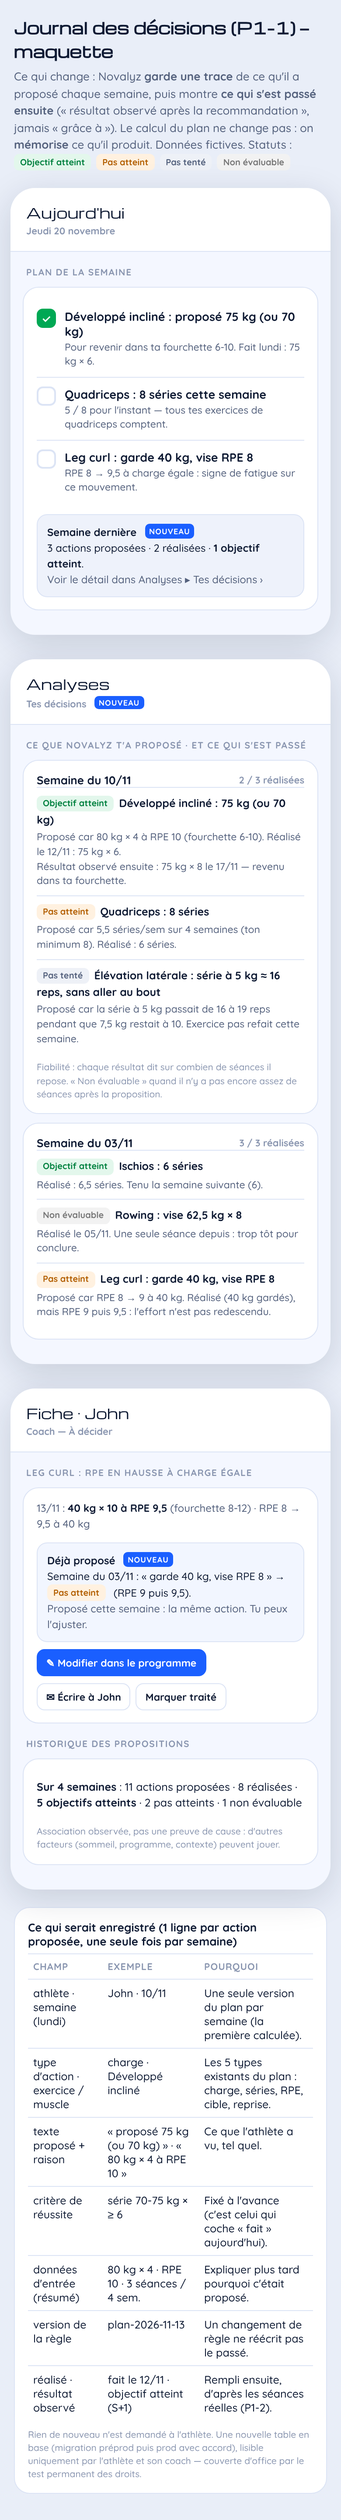
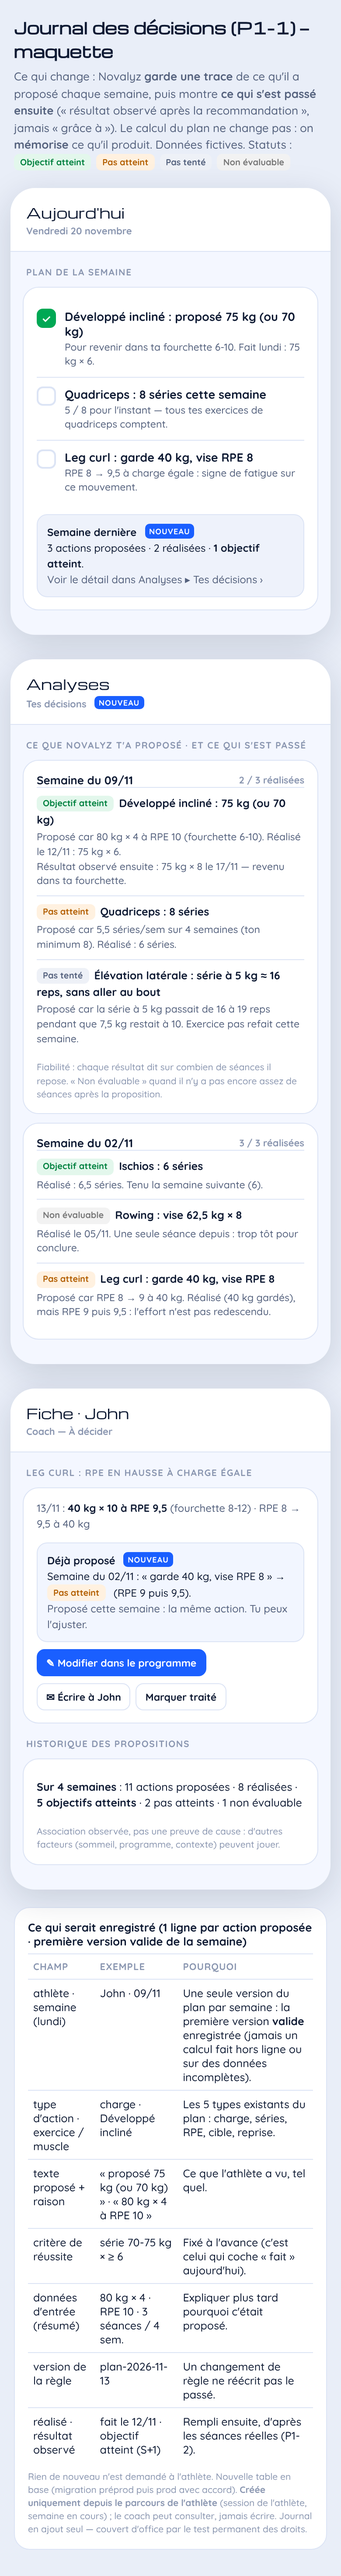
P1-1 journal des décisions : migration + routes serveur + tests (aucune modification de l'app)
Validé porteur (13/11) : maquette + option A (l'app calcule, le serveur fige) avec 5 garde-fous.
- Migration 20261113160000_decisions.sql : table decisions (UNIQUE athlète+semaine+type+clé, lundi obligatoire,
  types fermés, version de règle), RLS fermé, serveur seul. Vérifiée sur PostgreSQL 16 local.
- index.ts : enregistrerPlan (athlète de la session uniquement, coach refusé dans authCheck ; semaine courante
  Paris/UTC ; donnees_completes obligatoire ; contrôle de forme sans recalcul ; 1re version valide, 23505 = déjà) ;
  getDecisions (athlète, son coach) ; suppression du compte efface le journal.
- Tests : journal-decisions (44), suppression-compte et banc de droits couvrent la nouvelle table (123 routes).
- Maquette : dates corrigées, « première version valide enregistrée », coach en lecture seule.

Claude-Session: https://claude.ai/code/session_01Cg9q2H2KbjYxG63Do6Xty1

Changed region(s): [[0.0308, 0.0, 0.9846, 0.9993]]

diff --git a/tests/journal-decisions.test.js b/tests/journal-decisions.test.js
@@ -1,0 +1,123 @@
+/* JOURNAL DES DÉCISIONS (P1-1, 13/11/2026) — routes enregistrerPlan / getDecisions sur le VRAI index.ts
+ * (contrôle d'accès compris : AUTH_ENFORCE=1, sessions signées réelles, requêtes HTTP).
+ * Garde-fous du porteur : (1) athlète = session, coach jamais en écriture ; (2) semaine courante seulement ;
+ * (3) une seule version par semaine, aucun doublon ; (4) rien sans données complètes ; (5) contrôle de forme, pas de recalcul. */
+const fs = require('fs'), path = require('path'), vm = require('vm');
+const { stripTypeScriptTypes } = require('node:module');
+const ROOT = path.join(__dirname, '..');
+const T = fs.readFileSync(path.join(__dirname, 'e2e-parcours.test.js'), 'utf8');
+eval(T.slice(T.indexOf('function makeEngine'), T.indexOf('// ── Chargement du VRAI backend')));
+const SRC = fs.readFileSync(path.join(ROOT, 'supabase', 'functions', 'handler', 'index.ts'), 'utf8');
+
+let STORE = null, INSERT_23505 = false, NIP = 0;
+const ENV = { PEPPER: 'p', AUTH_ENFORCE: '1' };
+function db() {
+  return { from: (t) => { const q = makeEngine(STORE).from(t);
+    if (t === 'decisions' && INSERT_23505) { q.insert = () => { const ko = { data: null, error: { code: '23505' } }; const th = { then: (r) => r(ko), select: () => th }; return th; }; }
+    return q; }, rpc: () => ({ then: (r) => r({ data: null, error: null }) }), storage: { from: () => ({}) } };
+}
+let HANDLER = null, API = null;
+{ let js = stripTypeScriptTypes(SRC).split('\n').filter((l) => !/^import\s/.test(l)).join('\n') + '\n;this.__api = { signSession, _sessDepuisCache, _lundisCourants, fmtYMD, getLundi, minus };';
+  const sb = { createClient: () => db(), webpush: { setVapidDetails() {}, sendNotification: async () => {} }, Deno: { env: { get: (k) => ENV[k] }, serve: (fn) => { HANDLER = fn; } },
+    Response, Request, URL, URLSearchParams, TextEncoder, TextDecoder, crypto, atob, btoa, setTimeout, clearTimeout, fetch: async () => ({ ok: true, json: async () => ({}) }), console: { log() {}, error() {}, warn() {} } };
+  vm.createContext(sb); vm.runInContext(js, sb); API = sb.__api; }
+
+const U = 'https://x.supabase.co/functions/v1/smooth-service';
+async function post(body, tok) { NIP++; const r = await HANDLER(new Request(U + (tok ? '?_t=' + encodeURIComponent(tok) : ''), { method: 'POST', headers: { 'Content-Type': 'text/plain', 'x-forwarded-for': '10.1.' + Math.floor(NIP / 250) + '.' + (NIP % 250) }, body: JSON.stringify(body) })); return { status: r.status, j: await r.json() }; }
+async function get(params, tok) { NIP++; const q = new URLSearchParams(params); if (tok) q.set('_t', tok); const r = await HANDLER(new Request(U + '?' + q.toString(), { headers: { 'x-forwarded-for': '10.2.' + Math.floor(NIP / 250) + '.' + (NIP % 250) } })); return { status: r.status, j: await r.json() }; }
+
+let ok = 0, ko = 0;
+const eq = (c, n, g) => { if (c) ok++; else { ko++; console.error('  ✗ ' + n + (g !== undefined ? ' (got ' + JSON.stringify(g) + ')' : '')); } };
+const graine = () => ({ athletes: [{ id: 'A1', login: '1001', coach_id: 'C1', prefs: {} }, { id: 'A2', login: '1002', coach_id: 'C2', prefs: {} }],
+  coachs: [{ coach_id: 'C1', login: 'c1', prefs: {} }, { coach_id: 'C2', login: 'c2', prefs: {} }], decisions: [], login_echecs: [], quotas_jour: [] });
+const lundi = API.fmtYMD(API.getLundi(new Date()));
+const plan = (o) => Object.assign({ action: 'enregistrerPlan', semaine: lundi, regle_version: 'plan-2026-11-13', donnees_completes: true, actions: [
+  { type: 'charge', exo: 'Développé incliné', titre: 'Développé incliné : proposé 75 kg (ou 70 kg)', raison: 'Pour revenir dans ta fourchette 6-10.', critere: { charge: 75, alt: 70, reps: 6 }, donnees_entree: { c: 80, r: 4, rpe: 10, n: 3 } },
+  { type: 'series', exo: 'Belt squat', muscle: 'Quadriceps', titre: 'Quadriceps : 8 séries cette semaine', critere: { min: 8, add: 3, parSem: 5.5 } },
+  { type: 'rpe', exo: 'Leg curl', titre: 'Leg curl : garde 40 kg, vise RPE 8', critere: { charge: 40 } },
+] }, o || {});
+
+(async () => {
+  const tA1 = await API.signSession('a', 'A1'), tA2 = await API.signSession('a', 'A2'), tC1 = await API.signSession('c', 'C1'), tC2 = await API.signSession('c', 'C2');
+  const reset = () => { STORE = graine(); INSERT_23505 = false; API._sessDepuisCache.clear(); };
+
+  // (1)+(3) Athlète, plan valide → 3 lignes, athlète = session.
+  reset();
+  let r = await post(plan(), tA1);
+  eq(r.status === 200 && r.j.success === true && r.j.enregistrees === 3, 'athlète : plan valide enregistré (3 actions)', r);
+  eq(STORE.decisions.length === 3 && STORE.decisions.every((d) => d.athlete_id === 'A1' && d.semaine === lundi && d.regle_version === 'plan-2026-11-13'), 'lignes : athlète de la session, semaine, version', STORE.decisions);
+  eq(STORE.decisions.find((d) => d.type_action === 'series').cle === 'Quadriceps', 'action « séries » : clé = muscle');
+  eq(JSON.stringify(STORE.decisions[0].critere) === JSON.stringify({ charge: 75, alt: 70, reps: 6 }), 'critère de réussite enregistré tel quel');
+  // (3) Renvoi / plan différent la même semaine → rien de plus (première version valide).
+  r = await post(plan(), tA1);
+  eq(r.j.success === true && r.j.deja === true && STORE.decisions.length === 3, 'même plan renvoyé → aucun doublon', r);
+  r = await post(plan({ actions: [{ type: 'cible', exo: 'Rowing', titre: 'Rowing : vise 62,5 kg × 8', critere: { charge: 62.5, reps: 8 } }] }), tA1);
+  eq(r.j.deja === true && STORE.decisions.length === 3 && !STORE.decisions.some((d) => d.cle === 'Rowing'), 'autre plan la même semaine → ignoré (la 1re version valide reste)', STORE.decisions.length);
+  // (3) Envoi simultané : la contrainte UNIQUE de la base répond 23505 → traité comme « déjà enregistré ».
+  reset(); INSERT_23505 = true;
+  r = await post(plan(), tA1);
+  eq(r.j.success === true && r.j.deja === true, 'conflit UNIQUE (envoi simultané) → « déjà enregistré », pas d\'erreur', r);
+
+  // (1) Identité : jamais celle envoyée.
+  reset();
+  r = await post(plan({ athlete_id: 'A2' }), tA1);
+  eq(r.status === 401 && !STORE.decisions.length, 'athlète A1 qui cite A2 → refusé (401), rien écrit', r);
+  r = await post(plan({ athlete_id: 'A1' }), tA1);
+  eq(r.j.success === true && STORE.decisions.every((d) => d.athlete_id === 'A1'), 'athlete_id = celui de la session → accepté (contrôle de cohérence)');
+  reset();
+  r = await post(plan({ athlete_id: 'A1' }), tC1);
+  eq(r.status === 401 && !STORE.decisions.length, 'coach (même SON athlète) → refusé (401), rien écrit', r);
+  r = await post(plan(), tC1);
+  eq(r.status === 401 && !STORE.decisions.length, 'coach sans athlete_id → refusé (401)', r);
+  r = await post(plan(), null);
+  eq(r.status === 401 && !STORE.decisions.length, 'sans jeton → 401');
+
+  // (4) Données incomplètes → rien.
+  for (const v of [undefined, false, 'true', 1]) { reset(); const b = plan(); if (v === undefined) delete b.donnees_completes; else b.donnees_completes = v;
+    r = await post(b, tA1); eq(r.j.success === false && !STORE.decisions.length, 'donnees_completes = ' + JSON.stringify(v) + ' → rien enregistré', r); }
+
+  // (2) Semaine courante seulement.
+  const dec = (n) => API.fmtYMD(API.minus(API.getLundi(new Date()), n));
+  for (const [s, lib] of [[dec(7), 'semaine passée'], [dec(-7), 'semaine future'], [dec(-1), 'un mardi'], ['2026-13-40', 'date invalide'], ['', 'vide']]) {
+    reset(); r = await post(plan({ semaine: s }), tA1);
+    eq(r.j.success === false && !STORE.decisions.length, lib + ' (' + s + ') → refusé', r);
+  }
+  eq(API._lundisCourants(new Date('2026-11-15T23:30:00Z')).includes('2026-11-16'), 'dimanche 23 h 30 UTC = lundi 00 h 30 à Paris → lundi 16/11 accepté');
+  eq(API._lundisCourants(new Date('2026-11-15T23:30:00Z')).includes('2026-11-09'), '… et lundi 09/11 (UTC) aussi, pas un autre');
+
+  // (5) Contrôle de forme.
+  const mauvais = [
+    ['0 action', { actions: [] }], ['4 actions', { actions: [1, 2, 3, 4].map((i) => ({ type: 'cible', exo: 'E' + i, titre: 't', critere: {} })) }],
+    ['type inconnu', { actions: [{ type: 'magie', exo: 'X', titre: 't' }] }],
+    ['titre absent', { actions: [{ type: 'cible', exo: 'X' }] }], ['titre trop long', { actions: [{ type: 'cible', exo: 'X', titre: 'x'.repeat(201) }] }],
+    ['exercice absent', { actions: [{ type: 'charge', titre: 't' }] }],
+    ['critère inconnu', { actions: [{ type: 'cible', exo: 'X', titre: 't', critere: { pirate: 1 } }] }],
+    ['critère hors bornes', { actions: [{ type: 'cible', exo: 'X', titre: 't', critere: { charge: 5000 } }] }],
+    ['critère texte', { actions: [{ type: 'cible', exo: 'X', titre: 't', critere: { charge: '75' } }] }],
+    ['action en double', { actions: [{ type: 'cible', exo: 'X', titre: 't' }, { type: 'cible', exo: 'X', titre: 't2' }] }],
+    ['données d\'entrée trop longues', { actions: [{ type: 'cible', exo: 'X', titre: 't', donnees_entree: { a: 'x'.repeat(2100) } }] }],
+    ['version absente', { regle_version: '' }], ['version invalide', { regle_version: 'Plan V1!' }],
+  ];
+  for (const [lib, o] of mauvais) { reset(); r = await post(plan(o), tA1); eq(r.j.success === false && !STORE.decisions.length, 'forme : ' + lib + ' → refusé, rien écrit', r.j); }
+  reset(); r = await post(plan({ actions: [{ type: 'reprise', titre: 'Reprendre : 1 séance de muscu cette semaine', critere: { seances: 1 } }] }), tA1);
+  eq(r.j.success === true && STORE.decisions[0].cle === 'reprise', 'action « reprise » (sans exercice) acceptée', r.j);
+
+  // Lecture : athlète (le sien), son coach ; refus pour les autres.
+  reset(); await post(plan(), tA1); STORE.decisions.push({ athlete_id: 'A2', semaine: lundi, type_action: 'cible', cle: 'X', titre: 'SECRET_A2', critere: {}, donnees_entree: {}, regle_version: 'v-1' });
+  r = await get({ action: 'getDecisions', athlete_id: 'A1' }, tA1);
+  eq(r.status === 200 && r.j.decisions.length === 3 && !JSON.stringify(r.j).includes('SECRET_A2'), 'athlète : lit SON journal (3), rien d\'un autre', r.j);
+  r = await get({ action: 'getDecisions', athlete_id: 'A1' }, tC1);
+  eq(r.status === 200 && r.j.decisions.length === 3, 'coach : lit le journal de SON athlète', r.status);
+  r = await get({ action: 'getDecisions', athlete_id: 'A2' }, tA1); eq(r.status === 401, 'athlète A1 → journal de A2 : 401');
+  r = await get({ action: 'getDecisions', athlete_id: 'A2' }, tC1); eq(r.status === 401, 'coach hors périmètre → 401');
+  r = await get({ action: 'getDecisions', athlete_id: 'A1' }, null); eq(r.status === 401, 'lecture sans jeton → 401');
+
+  // Journal en ajout seul + le serveur ne recalcule pas le plan.
+  const ecr = [...SRC.matchAll(/from\('decisions'\)\.(insert|update|upsert|delete)/g)].map((m) => m[1]);
+  eq(JSON.stringify(ecr.sort()) === JSON.stringify(['delete', 'insert']), 'écritures sur decisions : 1 insertion (enregistrerPlan) + 1 suppression (suppression du compte), aucune modification', ecr);
+  const corps = SRC.slice(SRC.indexOf('async function handleEnregistrerPlan'), SRC.indexOf('async function handleGetDecisions'));
+  eq(!/_rcLectureExos|_lv3|progression_par_exo|performances/.test(corps), 'enregistrerPlan ne recalcule pas le moteur (aucune lecture des séances)');
+
+  console.log(`journal-decisions : ${ok} OK / ${ko} KO`);
+  process.exit(ko ? 1 : 0);
+})().catch((e) => { console.error(e); process.exit(1); });

diff --git a/supabase/functions/handler/index.ts b/supabase/functions/handler/index.ts
@@ -4521,6 +4521,7 @@ async function handleSupprimerCompte(body: any): Promise<Response> {
     sb().from('pauses').delete().eq('athlete_id', athleteId),
     sb().from('push_subscriptions').delete().eq('athlete_id', athleteId),
     sb().from('alertes_historique').delete().eq('athlete_id', athleteId),
+    sb().from('decisions').delete().eq('athlete_id', athleteId),   // journal des décisions (P1-1)
     sb().from('envois_recus').delete().eq('athlete_id', athleteId),
   ].map((q: any) => Promise.resolve(q).catch(() => null)))
   // Fichiers privés rangés sous le préfixe <athlete_id>/ : médias coach (photos/vidéos
@@ -6056,6 +6057,95 @@ async function handleCronResumes(body: any): Promise<Response> {
 // 'off' | 'semaine' | 'mois' | '3mois'. Le front envoie athlete_id OU coach_id.
 // P9 (05/11) : formulaire « Envoyer un retour » → hello@novalyz.fr (l'adresse perso n'apparaît plus dans l'app).
 const CONTACT_NOVALYZ = 'hello@novalyz.fr'
+// ── Journal des décisions (P1-1, 13/11 — migration 20261113160000_decisions.sql) ─────────────────────────────
+// Le plan de la semaine est calculé par l'APP (js/lecture-v3.js _lv3Plan, moteur unique). Ici on le FIGE, on ne le
+// recalcule pas. Garde-fous validés par le porteur : athlète = session (coach : jamais d'écriture) ; semaine COURANTE
+// seulement ; une seule version par athlète et par semaine (la première VALIDE), aucune ligne en double ; rien si l'app
+// n'a pas des données complètes ; contrôle de FORME uniquement. Journal en ajout seul (aucune route de modification).
+const DECISION_TYPES = ['charge', 'series', 'rpe', 'cible', 'reprise']
+const DECISION_CRITERE_BORNES: Record<string, [number, number]> = { charge: [0, 1000], alt: [0, 1000], reps: [0, 100], min: [0, 100], add: [0, 20], parSem: [0, 200], seances: [0, 14] }
+// Lundi de la semaine courante (aaaa-mm-jj) à l'heure de Paris, et en UTC (tolérance autour de minuit).
+function _lundisCourants(now: Date): string[] {
+  const out = new Set<string>([fmtYMD(getLundi(now))])
+  try {
+    const p: Record<string, string> = {}
+    for (const x of new Intl.DateTimeFormat('en-CA', { timeZone: 'Europe/Paris', year: 'numeric', month: '2-digit', day: '2-digit' }).formatToParts(now)) p[x.type] = x.value
+    out.add(fmtYMD(getLundi(new Date(Date.UTC(+p.year, +p.month - 1, +p.day)))))
+  } catch (_) { /* Intl indisponible : lundi UTC seul */ }
+  return [...out]
+}
+// Contrôle de forme d'une action du plan → ligne prête à insérer, ou message d'erreur. Ne juge pas le contenu.
+function _decisionLigne(a: any, athleteId: string, semaine: string, version: string): { ligne?: any; err?: string } {
+  if (!a || typeof a !== 'object' || Array.isArray(a)) return { err: 'action invalide' }
+  const type = String(a.type || '')
+  if (!DECISION_TYPES.includes(type)) return { err: 'type d\'action inconnu' }
+  const str = (v: any, max: number) => (v == null || v === '') ? null : (typeof v === 'string' && v.trim().length <= max ? v.trim() : undefined)
+  const titre = str(a.titre, 200), raison = str(a.raison, 600), exercice = str(a.exo, 120), muscle = str(a.muscle, 60)
+  if (!titre) return { err: 'titre manquant ou trop long' }
+  if (raison === undefined || exercice === undefined || muscle === undefined) return { err: 'champ trop long' }
+  const cle = type === 'reprise' ? 'reprise' : type === 'series' ? (muscle || exercice) : exercice
+  if (!cle) return { err: 'exercice / muscle manquant' }
+  const critere: Record<string, number> = {}
+  const c = a.critere == null ? {} : a.critere
+  if (typeof c !== 'object' || Array.isArray(c)) return { err: 'critère invalide' }
+  for (const k of Object.keys(c)) {
+    const b = DECISION_CRITERE_BORNES[k], v = c[k]
+    if (!b) return { err: 'critère : champ inconnu (' + k + ')' }
+    if (v == null) continue
+    if (typeof v !== 'number' || !isFinite(v) || v < b[0] || v > b[1]) return { err: 'critère : valeur hors bornes (' + k + ')' }
+    critere[k] = v
+  }
+  const de = a.donnees_entree == null ? {} : a.donnees_entree
+  if (typeof de !== 'object' || Array.isArray(de)) return { err: 'données d\'entrée invalides' }
+  if (JSON.stringify(de).length > 2000) return { err: 'données d\'entrée trop longues' }
+  return { ligne: { athlete_id: athleteId, semaine, type_action: type, cle, exercice, muscle, titre, raison, critere, donnees_entree: de, regle_version: version } }
+}
+async function handleEnregistrerPlan(body: any): Promise<Response> {
+  // 1. Identité = session ATHLÈTE (authCheck refuse déjà le coach et un athlete_id d'un autre ; double contrôle ici).
+  if (body._sessRole !== 'a' || !body._sessId) return jsonResp({ success: false, error: 'Réservé à l\'athlète' })
+  const athleteId = String(body._sessId)
+  if (body.athlete_id != null && body.athlete_id !== '' && String(body.athlete_id) !== athleteId) return jsonResp({ success: false, error: 'Athlète incohérent avec la session' })
+  // 4. L'app déclare avoir calculé le plan sur des données complètes (en ligne, getAppData chargé) ; sinon rien.
+  if (body.donnees_completes !== true) return jsonResp({ success: false, error: 'Plan non enregistré : données incomplètes' })
+  // 2. Semaine courante seulement.
+  const semaine = String(body.semaine || '')
+  if (!/^\d{4}-\d{2}-\d{2}$/.test(semaine) || !_lundisCourants(new Date()).includes(semaine)) return jsonResp({ success: false, error: 'Seul le plan de la semaine en cours peut être enregistré' })
+  const version = String(body.regle_version || '')
+  if (!/^[a-z0-9._-]{3,40}$/.test(version)) return jsonResp({ success: false, error: 'Version de règle manquante ou invalide' })
+  const actions = body.actions
+  if (!Array.isArray(actions) || actions.length < 1 || actions.length > 3) return jsonResp({ success: false, error: 'Le plan doit contenir 1 à 3 actions' })
+  // 5. Contrôle de forme (pas de recalcul du moteur).
+  const lignes: any[] = [], vus = new Set<string>()
+  for (const a of actions) {
+    const r = _decisionLigne(a, athleteId, semaine, version)
+    if (r.err) return jsonResp({ success: false, error: 'Plan refusé : ' + r.err })
+    const k = r.ligne.type_action + '|' + r.ligne.cle
+    if (vus.has(k)) return jsonResp({ success: false, error: 'Plan refusé : action en double' })
+    vus.add(k); lignes.push(r.ligne)
+  }
+  // 3. Une seule version par semaine : si un plan existe déjà pour cette semaine, on n'écrit rien (première version valide).
+  const { data: deja, error: eLire } = await sb().from('decisions').select('id').eq('athlete_id', athleteId).eq('semaine', semaine).limit(1)
+  if (eLire) return jsonResp({ success: false, error: 'Lecture du journal impossible' })
+  if (deja && deja.length) return jsonResp({ success: true, deja: true, enregistrees: 0 })
+  const { error } = await sb().from('decisions').insert(lignes)
+  if (error) {
+    if (String((error as any).code) === '23505') return jsonResp({ success: true, deja: true, enregistrees: 0 })   // envoi simultané : la contrainte UNIQUE tranche
+    return jsonResp({ success: false, error: 'Enregistrement impossible' })
+  }
+  return jsonResp({ success: true, deja: false, enregistrees: lignes.length })
+}
+// Lecture du journal : l'athlète (le sien) ou son coach (authCheck vérifie athlete_id). Lecture seule.
+async function handleGetDecisions(params: URLSearchParams): Promise<Response> {
+  const athleteId = String(params.get('athlete_id') || '').trim()
+  if (!athleteId) return jsonResp({ erreur: 'athlete_id manquant' })
+  const n = Math.max(1, Math.min(52, Number(params.get('semaines')) || 12))
+  const depuis = fmtYMD(minus(getLundi(new Date()), 7 * n))
+  const { data, error } = await sb().from('decisions').select('semaine,type_action,cle,exercice,muscle,titre,raison,critere,donnees_entree,regle_version,created_at')
+    .eq('athlete_id', athleteId).gte('semaine', depuis).order('semaine', { ascending: false }).order('id', { ascending: true })
+  if (error) return jsonResp({ success: false, error: 'Lecture du journal impossible' })
+  return jsonResp({ success: true, decisions: data || [] })
+}
+
 async function handleEnvoyerRetour(body: any): Promise<Response> {
   const msg = String(body.message || '').trim().slice(0, 3000)
   if (msg.length < 3) return jsonResp({ success: false, error: 'Message vide' })
@@ -8030,7 +8120,8 @@ async function authCheck(action: string, params: URLSearchParams, body: any): Pr
   // Audit P2.1 🟡 (décision porteur 13/11) : réservés à l'athlète lui-même. claimRecompense : les points sont les siens ;
   // saveEmail : l'e-mail sert à « mot de passe oublié » → un coach qui y mettait SON adresse pouvait reprendre le compte,
   // même après que l'athlète l'a quitté. L'app n'appelle ces deux routes que côté athlète.
-  if ((action === 'claimRecompense' || action === 'saveEmail') && sess.role !== 'a') return { ok: false, reason: 'coach ' + sess.id + ' → ' + action + ' de ' + aid + ' (réservé à l\'athlète)' }
+  // P1-1 (13/11) : le journal des décisions n'est créé que depuis le parcours de l'athlète (jamais par le coach).
+  if ((action === 'claimRecompense' || action === 'saveEmail' || action === 'enregistrerPlan') && sess.role !== 'a') return { ok: false, reason: 'coach ' + sess.id + ' → ' + action + ' de ' + aid + ' (réservé à l\'athlète)' }
   if (sess.role === 'a') {
     if (aid && aid !== sess.id) return { ok: false, reason: 'athlète ' + sess.id + ' → données de ' + aid }
     if (cid) {
@@ -8109,6 +8200,7 @@ Deno.serve(async (req: Request) => {
         case 'getSuiviEquipe':        return handleGetSuiviEquipe(params)
         case 'getSuiviJoueur':        return handleGetSuiviJoueur(params)
         case 'getTests':              return handleGetTests(params)
+        case 'getDecisions':          return handleGetDecisions(params)
         default:                      return jsonResp({ erreur: `Action inconnue: ${action}` }, 404)
       }
     }
@@ -8147,6 +8239,7 @@ Deno.serve(async (req: Request) => {
         case 'saveRecapFreq':            return handleSaveRecapFreq(body)
         case 'saveCoachPref':            return handleSaveCoachPref(body)
         case 'envoyerRetour':            return handleEnvoyerRetour(body)
+        case 'enregistrerPlan':          return handleEnregistrerPlan(body)
         case 'requestPasswordReset':     return handleRequestPasswordReset(body)
         case 'resetPassword':            return handleResetPassword(body)
         case 'confirmerEmail':           return handleConfirmerEmail(body)

diff --git a/mockups/journal-decisions.html b/mockups/journal-decisions.html
@@ -44,7 +44,7 @@ table{border-collapse:collapse;width:100%;font-size:12.5px}td,th{border-top:1px 
 <div class="wrap">
   <!-- 1. Aujourd'hui : plan de la semaine + bilan de la semaine dernière -->
   <div class="phone">
-    <div class="top">Aujourd'hui<small>Jeudi 20 novembre</small></div>
+    <div class="top">Aujourd'hui<small>Vendredi 20 novembre</small></div>
     <div class="lbl">Plan de la semaine</div>
     <div class="card">
       <div class="act"><div class="chk on">✓</div><div><div class="t">Développé incliné : proposé 75 kg (ou 70 kg)</div><div class="p">Pour revenir dans ta fourchette 6-10. Fait lundi : 75 kg × 6.</div></div></div>
@@ -61,7 +61,7 @@ table{border-collapse:collapse;width:100%;font-size:12.5px}td,th{border-top:1px 
     <div class="top">Analyses<small>Tes décisions <span class="new">NOUVEAU</span></small></div>
     <div class="lbl">Ce que Novalyz t'a proposé · et ce qui s'est passé</div>
     <div class="card">
-      <div class="wk">Semaine du 10/11 <span>2 / 3 réalisées</span></div>
+      <div class="wk">Semaine du 09/11 <span>2 / 3 réalisées</span></div>
       <div class="line"><span class="tag ok">Objectif atteint</span><b>Développé incliné : 75 kg (ou 70 kg)</b>
         <div class="o">Proposé car 80 kg × 4 à RPE 10 (fourchette 6-10). Réalisé le 12/11 : 75 kg × 6.<br>Résultat observé ensuite : 75 kg × 8 le 17/11 — revenu dans ta fourchette.</div></div>
       <div class="line"><span class="tag ko">Pas atteint</span><b>Quadriceps : 8 séries</b>
@@ -71,7 +71,7 @@ table{border-collapse:collapse;width:100%;font-size:12.5px}td,th{border-top:1px 
       <div class="cap">Fiabilité : chaque résultat dit sur combien de séances il repose. « Non évaluable » quand il n'y a pas encore assez de séances après la proposition.</div>
     </div>
     <div class="card">
-      <div class="wk">Semaine du 03/11 <span>3 / 3 réalisées</span></div>
+      <div class="wk">Semaine du 02/11 <span>3 / 3 réalisées</span></div>
       <div class="line"><span class="tag ok">Objectif atteint</span><b>Ischios : 6 séries</b><div class="o">Réalisé : 6,5 séries. Tenu la semaine suivante (6).</div></div>
       <div class="line"><span class="tag ne">Non évaluable</span><b>Rowing : vise 62,5 kg × 8</b><div class="o">Réalisé le 05/11. Une seule séance depuis : trop tôt pour conclure.</div></div>
       <div class="line"><span class="tag ko">Pas atteint</span><b>Leg curl : garde 40 kg, vise RPE 8</b><div class="o">Proposé car RPE 8 → 9 à 40 kg. Réalisé (40 kg gardés), mais RPE 9 puis 9,5 : l'effort n'est pas redescendu.</div></div>
@@ -85,7 +85,7 @@ table{border-collapse:collapse;width:100%;font-size:12.5px}td,th{border-top:1px 
     <div class="card">
       <div style="font-size:12px;color:var(--m);line-height:1.5">13/11 : <b style="color:var(--t)">40 kg × 10 à RPE 9,5</b> (fourchette 8-12) · RPE 8 → 9,5 à 40 kg</div>
       <div class="res" style="background:#F2F6FF"><b>Déjà proposé</b> <span class="new">NOUVEAU</span><br>
-        Semaine du 03/11 : « garde 40 kg, vise RPE 8 » → <span class="tag ko">Pas atteint</span> (RPE 9 puis 9,5).<br>
+        Semaine du 02/11 : « garde 40 kg, vise RPE 8 » → <span class="tag ko">Pas atteint</span> (RPE 9 puis 9,5).<br>
         <span style="color:var(--m)">Proposé cette semaine : la même action. Tu peux l'ajuster.</span></div>
       <span class="btn p">✎ Modifier dans le programme</span><span class="btn">✉ Écrire à John</span><span class="btn">Marquer traité</span>
     </div>
@@ -99,10 +99,10 @@ table{border-collapse:collapse;width:100%;font-size:12.5px}td,th{border-top:1px 
 
 <div class="store">
   <div class="card">
-    <div class="wk" style="margin-bottom:6px">Ce qui serait enregistré (1 ligne par action proposée, une seule fois par semaine)</div>
+    <div class="wk" style="margin-bottom:6px">Ce qui serait enregistré (1 ligne par action proposée · première version valide de la semaine)</div>
     <table>
       <tr><th>Champ</th><th>Exemple</th><th>Pourquoi</th></tr>
-      <tr><td>athlète · semaine (lundi)</td><td>John · 10/11</td><td>Une seule version du plan par semaine (la première calculée).</td></tr>
+      <tr><td>athlète · semaine (lundi)</td><td>John · 09/11</td><td>Une seule version du plan par semaine : la première version <b>valide</b> enregistrée (jamais un calcul fait hors ligne ou sur des données incomplètes).</td></tr>
       <tr><td>type d'action · exercice / muscle</td><td>charge · Développé incliné</td><td>Les 5 types existants du plan : charge, séries, RPE, cible, reprise.</td></tr>
       <tr><td>texte proposé + raison</td><td>« proposé 75 kg (ou 70 kg) » · « 80 kg × 4 à RPE 10 »</td><td>Ce que l'athlète a vu, tel quel.</td></tr>
       <tr><td>critère de réussite</td><td>série 70-75 kg × ≥ 6</td><td>Fixé à l'avance (c'est celui qui coche « fait » aujourd'hui).</td></tr>
@@ -110,7 +110,7 @@ table{border-collapse:collapse;width:100%;font-size:12.5px}td,th{border-top:1px 
       <tr><td>version de la règle</td><td>plan-2026-11-13</td><td>Un changement de règle ne réécrit pas le passé.</td></tr>
       <tr><td>réalisé · résultat observé</td><td>fait le 12/11 · objectif atteint (S+1)</td><td>Rempli ensuite, d'après les séances réelles (P1-2).</td></tr>
     </table>
-    <div class="cap">Rien de nouveau n'est demandé à l'athlète. Une nouvelle table en base (migration préprod puis prod avec accord), lisible uniquement par l'athlète et son coach — couverte d'office par le test permanent des droits.</div>
+    <div class="cap">Rien de nouveau n'est demandé à l'athlète. Nouvelle table en base (migration préprod puis prod avec accord). <b>Créée uniquement depuis le parcours de l'athlète</b> (session de l'athlète, semaine en cours) ; le coach peut consulter, jamais écrire. Journal en ajout seul — couvert d'office par le test permanent des droits.</div>
   </div>
 </div>
 </body></html>

diff --git a/scripts/audit-droits/banc.js b/scripts/audit-droits/banc.js
@@ -54,6 +54,7 @@ function graine() {
     s.notes = (s.notes || []).concat([{ athlete_id: aid, date: AUJ, note: 'note ' + tag, seance_id: 'S_' + aid }]);
     s.activites = (s.activites || []).concat([{ athlete_id: aid, seance_id: 'S_' + aid, date: AUJ, type: 'muscu', titre: tag }]);
     s.alertes_traitees = (s.alertes_traitees || []).concat([{ coach_id: cid, athlete_id: aid, cle: 'absence|' + tag, semaine: AUJ }]);
+    s.decisions = (s.decisions || []).concat([{ id: 'D_' + aid, athlete_id: aid, semaine: AUJ, type_action: 'cible', cle: 'Squat ' + tag, titre: 'décision ' + tag, critere: {}, donnees_entree: {}, regle_version: 'plan-test' }]);   // journal des décisions (P1-1)
   };
   pour('A1', 'MINE_A1', 'C1'); pour('A2', 'SECRET_A2', 'C2'); pour('A3', 'SECRET_A3', null);
   s.exercices = [{ exercice_id: '1', exercice: 'Squat', muscle: 'Quadriceps', statut: 'valide' }, { exercice_id: '2', exercice: 'Privé SECRET_C2', muscle: 'Dos', statut: 'en_attente', cree_par: 'coach:C2' }];

diff --git a/tests/suppression-compte-complete.test.js b/tests/suppression-compte-complete.test.js
@@ -15,7 +15,7 @@ const ROOT = path.join(__dirname, '..');
 const T = fs.readFileSync(path.join(__dirname, 'e2e-parcours.test.js'), 'utf8');
 eval(T.slice(T.indexOf('function makeEngine'), T.indexOf('// ── Chargement du VRAI backend')));
 
-const TABLES = ['activites', 'alertes_historique', 'bien_etre', 'blessures', 'commentaires', 'contexte_athlete', 'google_health_tokens',
+const TABLES = ['activites', 'alertes_historique', 'bien_etre', 'decisions', 'blessures', 'commentaires', 'contexte_athlete', 'google_health_tokens',
   'indicateurs', 'native_push_tokens', 'notes', 'objectif', 'objectifs', 'password_reset_tokens', 'pauses', 'performances', 'planning',
   'poids_historique', 'programme', 'push_subscriptions', 'tests'];
 

diff --git a/supabase/MIGRATIONS.md b/supabase/MIGRATIONS.md
@@ -28,6 +28,7 @@
 | `20261110170000_hachage_w1.sql` | Hachage lent des mots de passe (option C, `docs/note-hachage-mdp-2026-11-10.md`) : colonne de secours `password_hash_s2` (athletes, coachs) pour le retour arrière + table `jetons_admin` (jetons à durée limitée pour la conversion s2 → w1 par le serveur). Aucun mot de passe touché par la migration elle-même | ✅ appliquée 10/11/2026 ; serveur déployé ; John converti à la connexion, Lucas + jim par la tâche (jeton, 2 traités, 0 restant, faux jeton → 401) ; 3 connexions OK + mauvais mot de passe refusé ; connexion w1 ≈ 0,5 s au total | ✅ appliquée 10/11/2026 (accord porteur ; colonnes + table créées, RLS actif, aucun mot de passe touché : 53 comptes encore en s2). `index.ts` v246 déployé (= dépôt). Conversion : 18 lots, 53 comptes, 0 échec → 53 en w1 avec secours s2, 0 en s2 (1 compte démo sans mot de passe, inchangé) ; jetons supprimés. Test réel : John OK, mauvais mot de passe refusé. jim (démo) refusé avec `demo2026` AUSSI avec son s2 d'origine remis → son mot de passe prod n'est pas `demo2026` (pas lié à la conversion), reconverti en w1. À faire après observation : supprimer `password_hash_s2` |
 | `20261110190000_rls_auto_enable_droits.sql` | P0-3 audit (S7) : retire `EXECUTE` sur `rls_auto_enable()` (SECURITY DEFINER, retour `event_trigger`) à PUBLIC, `anon`, `authenticated`, `service_role` ; `postgres` (propriétaire) le garde. Fonction et déclencheur `ensure_rls` inchangés | ✅ appliquée 10/11/2026 : droits = `postgres` seul ; `anon` / `authenticated` → « permission denied » ; table de test créée → RLS activé automatiquement (déclencheur OK) puis supprimée ; seul usage = `ensure_rls` (aucune fonction, vue ni route) ; test local PG16 : déclencheur OK même pour un rôle sans `EXECUTE`, migration rejouable | ✅ appliquée 10/11/2026 (accord porteur) : droits = `postgres` seul ; `anon` / `authenticated` refusés ; table de test → RLS activé puis supprimée ; plus aucune fonction SECURITY DEFINER exposée ; 2 crons actifs inchangés |
 | `20261111150000_retours.sql` | Table `retours` (bouton « Signaler un problème / une idée », athlète et coach) : rôle, compte, type bug/idée/autre, message, écran, version, plateforme, statut ; RLS fermé, écriture serveur seul (`envoyerRetour`). Sans elle : e-mail seul, comme avant | ✅ appliquée 11/11/2026 | ✅ appliquée 11/11/2026 (accord porteur) |
+| `20261113160000_decisions.sql` | Table `decisions` (journal des décisions, P1-1 — audit moteur 13/11) : plan de la semaine **figé tel que calculé par l'app** (1 ligne par action ; UNIQUE athlète + semaine + type + clé ; lundi obligatoire ; type parmi charge / séries / RPE / cible / reprise ; critère de réussite et données d'entrée en jsonb ; version de règle). RLS fermé, serveur seul. Écriture : `enregistrerPlan` (athlète de la session, semaine courante, 1re version valide) ; lecture : `getDecisions` (athlète, son coach) ; ajout seul. Vérifiée sur PostgreSQL 16 local (rejouable, doublon / mardi / type / version refusés, RLS actif, anon / authenticated sans droit) | ⏳ à appliquer (après accord) | ⏳ à appliquer (après préprod + accord) |
 
 ## 3. Historique avant le 09/11/2026 (prod)
 
